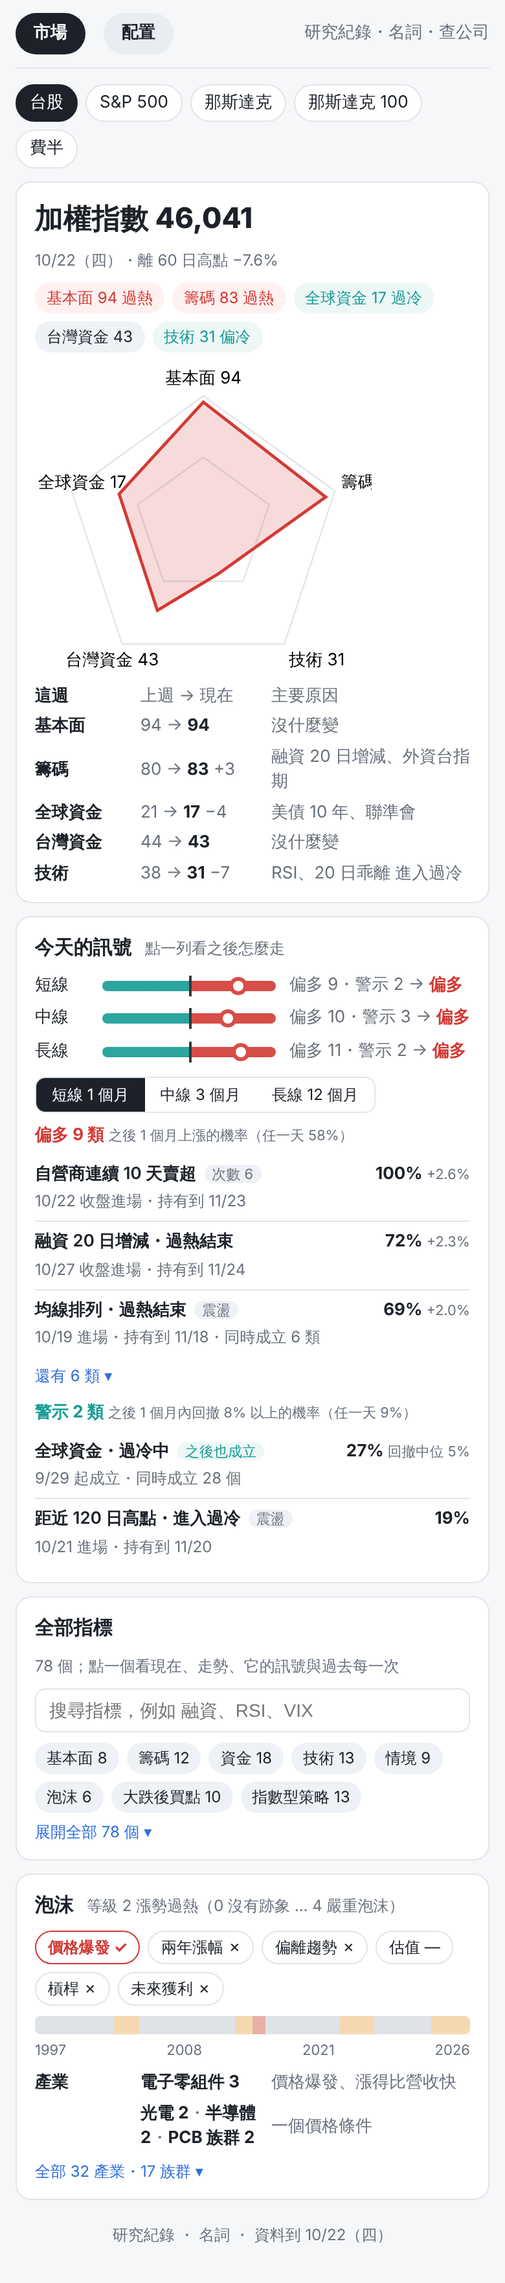
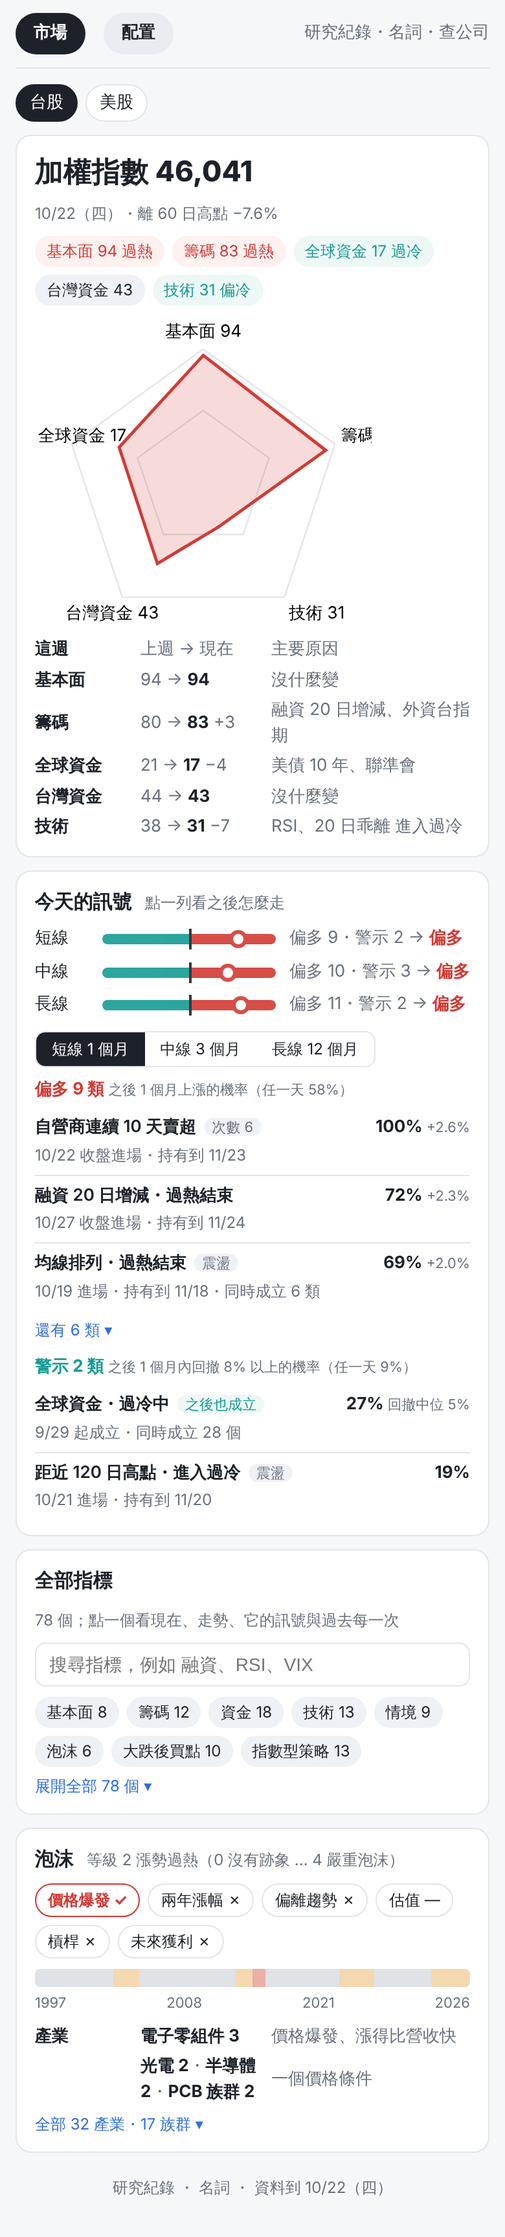
v5 規劃檔第四輪：配置拆成台股、美股、策略三頁；美股整合成一頁（配置與市場頁）；示意圖第四版 10 張（含 HTML 原稿）
Claude-Session: https://claude.ai/code/session_01Bw8dmRtPnDTV9FRHXYRm2s

diff --git a/docs/mockups/ia_v5_mock.html b/docs/mockups/ia_v5_mock.html
@@ -1,6 +1,6 @@
 <!doctype html>
 <html lang="zh-Hant"><head><meta charset="utf-8"><meta name="viewport" content="width=device-width,initial-scale=1">
-<title>籌碼雷達 v5 示意圖（第三版）</title>
+<title>籌碼雷達 v5 示意圖（第四版）</title>
 <style>
 :root{--bg:#f6f7f9;--card:#fff;--ink:#1d222a;--mut:#69717d;--line:#e2e5ea;--red:#d33a34;--teal:#159c94;--gold:#b8860b;--blue:#2f6fdd;--warm:#fff1f0;--cool:#edf7f6;--navy:#3a4a63}
 *{box-sizing:border-box}body{margin:0;background:var(--bg);color:var(--ink);font:14px/1.5 -apple-system,"Noto Sans TC","PingFang TC",system-ui,sans-serif}
@@ -77,12 +77,18 @@
  .ht td.src,.ht td.st{grid-column:1/3;font-size:12px}.ht tr.g td,.ht tr.tot td:last-child{grid-column:1/3}.ht tr.g{background:#f7f8fa}
  .bt th:nth-child(3),.bt td:nth-child(3),.bt th:nth-child(5),.bt td:nth-child(5){display:none}
 }
-</style></head><body>
 
-<!-- ============ 市場（同第二版） ============ -->
+/* 第四版新增 */
+.oth{display:flex;flex-wrap:wrap;gap:4px 16px;font-size:12.5px;color:var(--mut);margin-top:8px}.oth b{color:var(--ink)}
+.slim{display:flex;flex-wrap:wrap;gap:6px 14px;align-items:center;font-size:13px}.slim b{font-size:15px}.slim a{color:var(--blue);text-decoration:none}
+.bub{display:grid;grid-template-columns:9em 5em 1fr;gap:4px 10px;font-size:13px;align-items:center}.bub .lv{font-weight:800}.bub .lv.y{color:var(--red)}
+@media(max-width:640px){.bub{grid-template-columns:7em 3.5em 1fr}}
+.lvc.full{max-width:none}
+.qq{font-size:12.5px;color:var(--mut);margin-top:4px}.qq b{color:var(--ink)}
+</style></head><body>
 <div class="page" id="market">
   <div class="top"><span class="tab on">市場</span><span class="tab">配置</span><span class="r">研究紀錄・名詞・查公司</span></div>
-  <div class="mk"><span class="on">台股</span><span>S&amp;P 500</span><span>那斯達克</span><span>那斯達克 100</span><span>費半</span></div>
+  <div class="mk"><span class="on">台股</span><span>美股</span></div>
   <div class="card">
     <div class="hd"><span class="px">加權指數 46,041</span><span class="d">10/22（四）・離 60 日高點 −7.6%</span></div>
     <div class="chips"><span class="chip hot">基本面 94 過熱</span><span class="chip hot">籌碼 83 過熱</span><span class="chip cold">全球資金 17 過冷</span><span class="chip">台灣資金 43</span><span class="chip cold">技術 31 偏冷</span></div>
@@ -135,88 +141,161 @@
   <div class="foot">研究紀錄 ・ 名詞 ・ 資料到 10/22（四）</div>
 </div>
 
-<!-- ============ 配置（第三版） ============ -->
-<div class="page" id="cfg" hidden>
-  <div class="top"><span class="tab">市場</span><span class="tab on">配置</span><span class="r">研究紀錄・名詞・查公司</span></div>
-  <div class="mk"><span class="on">配置</span><span>個股（工具）</span></div>
-
+<div class="page" id="market-us" hidden>
+  <div class="top"><span class="tab on">市場</span><span class="tab">配置</span><span class="r">研究紀錄・名詞・查公司</span></div>
+  <div class="mk"><span class="">台股</span><span class="on">美股</span></div>
   <div class="card">
-    <h2>時程 <small>10/22 收盤後更新</small></h2>
-    <div class="tiles">
-      <div class="tile"><div class="l">待買進</div><div class="v">6 檔</div><div class="s">最近 10/26（一）開盤</div></div>
-      <div class="tile"><div class="l">持有中</div><div class="v">14 檔</div><div class="s">台股 7・美股 7</div></div>
-      <div class="tile"><div class="l">台股水位</div><div class="v">100%</div><div class="s">警訊 0／3</div></div>
-      <div class="tile"><div class="l">美股水位</div><div class="v">100%</div><div class="s">警訊 0／4</div></div>
+    <div class="hd"><span class="px">S&amp;P 500 6,735</span><span class="d">10/22（四）・離 60 日高點 −1.9%</span><span class="d">那斯達克 100 24,980・−2.4%</span><span class="d">費半 6,410・−8.7%（6/22 高點起 −24%）</span></div>
+    <div class="chips"><span class="chip hot">基本面 68 偏熱</span><span class="chip">情緒籌碼 55</span><span class="chip">資金 40</span><span class="chip hot">技術 62 偏熱</span></div>
+    <div class="rad" style="margin-top:10px">
+      <svg viewBox="0 0 220 200" width="100%" style="max-width:260px"><polygon points="110,20 200,100 110,180 20,100" fill="none" stroke="#e2e5ea"/><polygon points="110,60 160,100 110,140 60,100" fill="none" stroke="#e2e5ea"/><polygon points="110,46 150,100 110,130 74,100" fill="rgba(211,58,52,.18)" stroke="#d33a34" stroke-width="2"/><text x="110" y="12" font-size="11" text-anchor="middle">基本面 68</text><text x="204" y="104" font-size="11" text-anchor="end" dx="12">情緒籌碼 55</text><text x="110" y="196" font-size="11" text-anchor="middle">技術 62</text><text x="2" y="104" font-size="11">資金 40</text></svg>
+      <div>
+        <div class="mv">
+          <span class="k">這週</span><span class="v">上週 → 現在</span><span class="v">主要原因</span>
+          <span class="k">基本面</span><span class="v">65 → <b>68</b> +3</span><span class="v">失業率、製造業指數</span>
+          <span class="k">情緒籌碼</span><span class="v">52 → <b>55</b> +3</span><span class="v">VIX 回落、期貨淨多單</span>
+          <span class="k">資金</span><span class="v">42 → <b>40</b> −2</span><span class="v">10 年債、高收益債利差</span>
+          <span class="k">技術</span><span class="v">66 → <b>62</b> −4</span><span class="v">RSI、20 日乖離</span>
+        </div>
+        <div class="oth"><span>技術面依指數：</span><span>S&amp;P 500 <b>62</b></span><span>那斯達克 100 <b>58</b></span><span>費半 <b>71</b> 偏熱</span><span class="note">基本面、情緒籌碼、資金三個面向是整個美股共用的</span></div>
+      </div>
     </div>
-    <div class="nextbox">
-      <div><div class="d">10/26（一）<small>美股・下一個交易日要做的事</small></div><div><span class="pillb">開盤買進</span>強勢品質股 補 1 檔（名單 10/23 收盤定案，目前 PAYC 領先）</div></div>
-      <div><div class="d">10/27（二）<small>台股・下一個交易日要做的事</small></div><div><span class="pillb">開盤買進</span>共識加碼 玉晶光（開盤價 &lt; 1,160）<span class="note">・觀察中的策略，不在配置裡</span></div></div>
+  </div>
+  <div class="card">
+    <h2>今天的訊號 <small>S&amp;P 500；點一列看之後怎麼走</small></h2>
+    <div class="therm">
+      <span>短線</span><div class="bar"><i style="left:50%"></i><b style="left:40%"></b></div><span class="rd">偏多 3・警示 4 → <b style="color:var(--teal)">偏警示</b></span>
+      <span>中線</span><div class="bar"><i style="left:50%"></i><b style="left:68%"></b></div><span class="rd">偏多 5・警示 2 → <b>偏多</b></span>
+      <span>長線</span><div class="bar"><i style="left:50%"></i><b style="left:76%"></b></div><span class="rd">偏多 6・警示 1 → <b>偏多</b></span>
+    </div>
+    <div class="seg" style="margin-top:10px"><span class="on">短線 1 個月</span><span>中線 3 個月</span><span>長線 12 個月</span></div>
+    <div class="two">
+      <div class="list"><h4 class="up">偏多 3 類 <small style="font-weight:400;color:var(--mut)">之後 1 個月上漲的機率（任一天 62%）</small></h4>
+        <div class="row"><span class="n">上漲家數占比・進入過冷</span><span class="p">70% <small>+2.1%</small></span><span class="s">10/21 收盤進場・持有到 11/20</span></div>
+        <div class="row"><span class="n">20 日乖離・過冷結束<span class="tag">震盪</span></span><span class="p">66% <small>+1.8%</small></span><span class="s">10/17 進場・持有到 11/17・同時成立 3 類</span></div>
+        <div class="row"><span class="n">10 年減 3 個月利差・過冷結束</span><span class="p">64% <small>+1.5%</small></span><span class="s">10/9 進場・持有到 11/9</span></div>
+      </div>
+      <div class="list"><h4 class="dn">警示 4 類 <small style="font-weight:400;color:var(--mut)">之後 1 個月內回撤 5.7% 以上的機率（任一天 8%）</small></h4>
+        <div class="row"><span class="n">M2 年增率・過熱中<span class="tag ok">之後也成立</span></span><span class="p">31% <small>回撤中位 4%</small></span><span class="s">8/29 起成立</span></div>
+        <div class="row"><span class="n">期貨淨多單・進入過熱</span><span class="p">24%</span><span class="s">10/14 進場・持有到 11/13</span></div>
+        <div class="row"><span class="n">隱含波動率・過冷中</span><span class="p">22%</span><span class="s">10/2 起成立・同時成立 2 個</span></div>
+        <div class="more">還有 1 類 ▾</div>
+      </div>
+    </div>
+    <div class="oth" style="margin-top:10px"><span>其他指數：</span><span>那斯達克 100 短線 偏多 <b>2</b>・警示 <b>3</b></span><span>費半 短線 偏多 <b>1</b>・警示 <b>5</b></span><span class="more" style="margin:0">看它們的清單 ▾</span></div>
+  </div>
+  <div class="card">
+    <h2>全部指標 <small>92 個；三個指數共用 60 個，技術面與泡沫依指數各算</small></h2>
+    <div class="srch"><input placeholder="搜尋指標，例如 VIX、失業率、M2"></div>
+    <div class="chips"><span class="chip">基本面 11</span><span class="chip">情緒籌碼 5</span><span class="chip">資金 10</span><span class="chip">技術 9</span><span class="chip">情境 9</span><span class="chip">泡沫 11</span><span class="chip">大跌後買點 7</span><span class="chip">指數型策略 14</span></div>
+    <div class="more">展開全部 92 個 ▾</div>
+  </div>
+  <div class="card" id="bub-us">
+    <h2>泡沫 <small>三個指數各自的等級（0 沒有跡象 … 4 嚴重泡沫）</small></h2>
+    <div class="bub">
+      <span>S&amp;P 500</span><span class="lv y">2</span><span class="cond" style="margin:0"><span class="y">價格爆發 ✓</span><span>估值 ✗</span><span>槓桿 ✗</span><span>未來獲利 ✗</span></span>
+      <span>那斯達克 100</span><span class="lv">0</span><span class="note">沒有跡象</span>
+      <span>費半</span><span class="lv y">2</span><span class="cond" style="margin:0"><span class="y">價格爆發 ✓</span><span>漲得比獲利快 ✗</span><span>未來獲利 ✗</span></span>
+    </div>
+    <div class="band"></div><div class="ax"><span>1950</span><span>2000</span><span>2008</span><span>2021</span><span>2026</span></div>
+    <div class="mv" style="margin-top:8px"><span class="k">產業</span><span class="v"><b>科技 XLK 2</b></span><span class="v">一個價格條件</span><span></span><span class="v">49 個細產業裡 <b>8 個等級 2</b>（2026-08）</span><span class="v">兩年翻倍、比大盤多漲</span></div>
+    <div class="more">全部類股與細產業 ▾</div>
+  </div>
+  <div class="foot">研究紀錄 ・ 名詞 ・ 資料到 10/22（四）</div>
+</div>
+<div class="page" id="cfg-tw" hidden>
+  <div class="top"><span class="tab">市場</span><span class="tab on">配置</span><span class="r">研究紀錄・名詞・查公司</span></div>
+  <div class="mk"><span class="on">台股</span><span class="">美股</span><span class="">策略</span><span class="">個股（工具）</span></div>
+  <div class="card">
+    <h2>時程 <small>台股・10/22 收盤後更新</small></h2>
+    <div class="tiles"><div class="tile"><div class="l">待買進</div><div class="v">4 檔</div><div class="s">11/2（一）開盤・長線投信動能</div></div><div class="tile"><div class="l">持有中</div><div class="v">7 檔</div><div class="s">臺灣50 2・財報驚喜 5</div></div><div class="tile"><div class="l">股票水位</div><div class="v">100%</div><div class="s">現金 0%</div></div><div class="tile"><div class="l">警訊</div><div class="v">0／3</div><div class="s">通膨偏高・融資偏多・跌破年線</div></div></div>
+    <div class="nextbox" style="grid-template-columns:1fr">
+      <div><div class="d">10/27（二）<small>下一個交易日要做的事</small></div><div>使用中的策略沒有排定的買賣。</div><div style="margin-top:4px"><span class="pillb">開盤買進</span>共識加碼 玉晶光（開盤價 &lt; 1,160）<span class="note">・觀察中的策略，不在配置裡</span></div></div>
     </div>
     <div class="tlbar"><span class="seg" style="margin:0"><span class="on">全部</span><span>接下來 5 週</span></span><span class="lg"><b style="color:#d33a34">▲ 買進</b><b style="color:#159c94">▼ 賣出</b><b style="color:#2f6fdd">◆ 調整</b><b>▭ 持有中（顏色＝目前漲跌）</b><b>▭ 排定的買進</b></span><span style="margin-left:auto"><span class="sw"><span class="on">使用中</span><span>＋觀察中</span></span></span></div>
-    <div id="tl"></div>
+    <div id="tl-tw" class="tlbox"></div>
   </div>
-
   <div class="card">
-    <h2>水位總覽 <small>兩個市場現在各拿多少、三成放什麼、警訊</small></h2>
-    <div class="lv">
-      <div class="lvc">
-        <div class="h"><b>台股</b><span class="note">長抱 0050・10/22 收盤</span><span class="w">股票 100%<small>・現金 0%</small></span></div>
-        <div class="stack"><div class="c">長抱 70%　0050</div><div class="s1">臺灣50 10%</div><div class="s2">財報 10%</div><div class="s3">長線 10%</div></div><div class="stlg">機動：臺灣50 10%・財報驚喜 10%・長線 10%</div>
-        <div class="lvr"><span>警訊 <span class="ok">0／3</span></span><span>通膨偏高<i class="wb"><i style="width:77%"></i><u></u></i>76.7</span><span>融資偏多<i class="wb"><i style="width:55%"></i><u></u></i>54.5</span><span>年線<i class="wb"><i style="width:36%;background:#9bb"></i><u style="left:50%"></u></i>高 14.1%</span></div>
-        <div class="note">兩個以上成立：隔天收盤把機動 30% 換成現金，解除滿兩週才買回</div>
-        <div class="perf">2014 起 100 萬變 <b>1,261 萬</b>（0050 抱著 793 萬）・最慘跌 <b>23%</b>（29%）・年化約 23%（18%）　<span class="more" style="margin:0">細節 ▾</span></div>
-      </div>
-      <div class="lvc">
-        <div class="h"><b>美股</b><span class="note">長抱 <span class="sw"><span class="on">S&amp;P 500</span><span>那斯達克 100</span></span>・10/22 收盤</span><span class="w">股票 100%<small>・現金 0%</small></span></div>
-        <div class="stack"><div class="c">長抱 70%　SPY／VOO</div><div class="s30">強勢品質股 30%（8 檔）</div></div><div class="stlg">機動：強勢品質股 30%（8 檔，空位放 S&amp;P 500）</div>
-        <div class="lvr"><span>警訊 <span class="ok">0／4</span></span><span>通膨<i class="wb"><i style="width:77%"></i><u></u></i>76.7</span><span>融資增加<i class="wb"><i style="width:75%"></i><u></u></i>75.0</span><span>年線<i class="wb"><i style="width:44%;background:#9bb"></i><u style="left:50%"></u></i>高 5.2%</span><span>總經策略<i class="wb"><i style="width:25%;background:#9bb"></i><u style="left:99%"></u></i>3 條有部位</span></div>
-        <div class="note">兩個以上成立，或總經策略全部空手：隔天收盤把機動 30% 換成現金</div>
-        <div class="perf">2014 起 100 萬變 <b>886 萬</b>（SPY 抱著 515 萬）・最慘跌 <b>25%</b>（34%）・年化約 19%（14%）　<span class="more" style="margin:0">細節 ▾</span></div>
-      </div>
+    <h2>水位 <small>現在拿多少、三成放什麼、警訊</small></h2>
+    <div class="lvc full">
+      <div class="h"><b>台股</b><span class="note">長抱 0050・10/22 收盤</span><span class="w">股票 100%<small>・現金 0%</small></span></div>
+      <div class="stack"><div class="c">長抱 70%　0050</div><div class="s1">臺灣50 10%</div><div class="s2">財報驚喜 10%</div><div class="s3">長線 10%</div></div><div class="stlg">機動：臺灣50 10%・財報驚喜 10%・長線 10%</div>
+      <div class="lvr"><span>警訊 <span class="ok">0／3</span></span><span>通膨偏高<i class="wb"><i style="width:77%"></i><u></u></i>76.7</span><span>融資偏多<i class="wb"><i style="width:55%"></i><u></u></i>54.5</span><span>年線<i class="wb"><i style="width:36%;background:#9bb"></i><u style="left:50%"></u></i>高 14.1%</span></div>
+      <div class="note">兩個以上成立：隔天收盤把機動 30% 換成現金，解除滿兩週才買回</div>
+      <div class="perf">2014 起 100 萬變 <b>1,261 萬</b>（0050 抱著 793 萬）・最慘跌 <b>23%</b>（29%）・年化約 23%（18%）　<span class="more" style="margin:0">細節 ▾</span></div>
     </div>
   </div>
-
   <div class="card">
-    <h2>持股細節 <small>比重＝占全部資金</small></h2>
-    <div class="lv">
-      <div>
-        <div class="sec" style="margin:4px 0 6px"><b style="font-size:15px">台股</b><span>合計 100%</span></div>
-        <table class="ht">
-          <tr><th>標的</th><th style="text-align:right">比重</th><th>來源</th><th>現況</th></tr>
-          <tr class="g"><td colspan="4">長抱 70%</td></tr>
-          <tr><td class="idx">0050</td><td class="w">70%</td><td class="src">一直抱著</td><td class="st">—</td></tr>
-          <tr class="g"><td colspan="4">機動 30%：三條策略各 10%，沒部位的放 0050</td></tr>
-          <tr><td>台塑 1301</td><td class="w">2.5%</td><td class="src">臺灣50 提前卡位</td><td class="st">10/16 買・−5.2%</td></tr>
-          <tr><td>景碩 3189</td><td class="w">2.5%</td><td class="src">臺灣50 提前卡位</td><td class="st">10/16 買・−5.1%</td></tr>
-          <tr><td class="idx">0050</td><td class="w">5%</td><td class="src">臺灣50 提前卡位</td><td class="st">名單還沒補滿（11/23 截止）</td></tr>
-          <tr><td>聯電 2303</td><td class="w">2%</td><td class="src">財報驚喜（大型股）</td><td class="st">8/17 買・11/13 收盤賣</td></tr>
-          <tr><td>台積電 2330</td><td class="w">2%</td><td class="src">財報驚喜（大型股）</td><td class="st">8/17 買・11/13 收盤賣</td></tr>
-          <tr><td>台光電 2383</td><td class="w">2%</td><td class="src">財報驚喜（大型股）</td><td class="st">8/17 買・11/13 收盤賣</td></tr>
-          <tr><td>文曄 3036</td><td class="w">2%</td><td class="src">財報驚喜（大型股）</td><td class="st">8/17 買・11/13 收盤賣</td></tr>
-          <tr><td>台燿 6274</td><td class="w">2%</td><td class="src">財報驚喜（大型股）</td><td class="st">8/17 買・11/13 收盤賣</td></tr>
-          <tr><td class="idx">0050</td><td class="w">10%</td><td class="src">長線投信動能</td><td class="st">沒有部位・11/2 開盤買 4 檔</td></tr>
-        </table>
-      </div>
-      <div>
-        <div class="sec" style="margin:4px 0 6px"><b style="font-size:15px">美股</b><span>合計 100%</span></div>
-        <table class="ht">
-          <tr><th>標的</th><th style="text-align:right">比重</th><th>來源</th><th>現況</th></tr>
-          <tr class="g"><td colspan="4">長抱 70%</td></tr>
-          <tr><td class="idx">SPY／VOO</td><td class="w">70%</td><td class="src">一直抱著</td><td class="st">—</td></tr>
-          <tr class="g"><td colspan="4">機動 30%：強勢品質股最多 8 檔，空位放 S&amp;P 500</td></tr>
-          <tr><td>INSW</td><td class="w">3.2%</td><td class="src">強勢品質股</td><td class="st">7/20 買・+29%・高於 50 日線 3.3%（最接近）</td></tr>
-          <tr><td>CDNA</td><td class="w">2.9%</td><td class="src">強勢品質股</td><td class="st">8/3 買・+47%</td></tr>
-          <tr><td>VLO</td><td class="w">4.3%</td><td class="src">強勢品質股</td><td class="st">8/31 買・+18%</td></tr>
-          <tr><td>DINO</td><td class="w">4.2%</td><td class="src">強勢品質股</td><td class="st">9/8 買・+14%</td></tr>
-          <tr><td>MPC</td><td class="w">4.2%</td><td class="src">強勢品質股</td><td class="st">9/14 買・+15%</td></tr>
-          <tr><td>ANF</td><td class="w">3.9%</td><td class="src">強勢品質股</td><td class="st">10/19 買・+5%</td></tr>
-          <tr><td>ILMN</td><td class="w">3.8%</td><td class="src">強勢品質股</td><td class="st">10/19 買・+0%</td></tr>
-          <tr><td class="idx">SPY</td><td class="w">3.6%</td><td class="src">強勢品質股</td><td class="st">空位 1・10/26 開盤補</td></tr>
-        </table>
-      </div>
+    <h2>持股細節 <small>比重＝占全部資金・合計 100%</small></h2>
+    <table class="ht">
+      <tr><th>標的</th><th>比重</th><th>來源</th><th>現況</th></tr>
+      <tr class="g"><td colspan="4">長抱 70%</td></tr>
+      <tr><td class="idx">0050</td><td class="w">70%</td><td class="src">一直抱著</td><td class="st">—</td></tr>
+      <tr class="g"><td colspan="4">機動 30%：三條策略各 10%，沒部位的放 0050</td></tr>
+      <tr><td>台塑 1301</td><td class="w">2.5%</td><td class="src">臺灣50 提前卡位</td><td class="st">10/16 買・−5.2%</td></tr>
+      <tr><td>景碩 3189</td><td class="w">2.5%</td><td class="src">臺灣50 提前卡位</td><td class="st">10/16 買・−5.1%</td></tr>
+      <tr><td class="idx">0050</td><td class="w">5%</td><td class="src">臺灣50 提前卡位</td><td class="st">名單還沒補滿（11/23 截止）</td></tr>
+      <tr><td>聯電 2303</td><td class="w">2%</td><td class="src">財報驚喜（大型股）</td><td class="st">8/17 買・11/13 收盤賣</td></tr>
+      <tr><td>台積電 2330</td><td class="w">2%</td><td class="src">財報驚喜（大型股）</td><td class="st">8/17 買・11/13 收盤賣</td></tr>
+      <tr><td>台光電 2383</td><td class="w">2%</td><td class="src">財報驚喜（大型股）</td><td class="st">8/17 買・11/13 收盤賣</td></tr>
+      <tr><td>文曄 3036</td><td class="w">2%</td><td class="src">財報驚喜（大型股）</td><td class="st">8/17 買・11/13 收盤賣</td></tr>
+      <tr><td>台燿 6274</td><td class="w">2%</td><td class="src">財報驚喜（大型股）</td><td class="st">8/17 買・11/13 收盤賣</td></tr>
+      <tr><td class="idx">0050</td><td class="w">10%</td><td class="src">長線投信動能</td><td class="st">沒有部位・11/2 開盤買 4 檔</td></tr>
+    </table>
+  </div>
+  <div class="card">
+    <div class="slim"><b>台股的策略</b><span>使用中 <b>4</b></span><span>觀察中 <b>9</b></span><span>候選 <b>0</b></span><span>淘汰 <b>10</b></span><a href="#">全部在「策略」頁 →</a></div>
+  </div>
+  <div class="foot">研究紀錄 ・ 名詞 ・ 資料到 10/22（四）</div>
+</div>
+<div class="page" id="cfg-us" hidden>
+  <div class="top"><span class="tab">市場</span><span class="tab on">配置</span><span class="r">研究紀錄・名詞・查公司</span></div>
+  <div class="mk"><span class="">台股</span><span class="on">美股</span><span class="">策略</span><span class="">個股（工具）</span></div>
+  <div class="card">
+    <h2>時程 <small>美股・10/22 收盤後更新</small></h2>
+    <div class="tiles"><div class="tile"><div class="l">待買進</div><div class="v">1 檔</div><div class="s">10/26（一）開盤・強勢品質股</div></div><div class="tile"><div class="l">持有中</div><div class="v">7 檔</div><div class="s">強勢品質股・平均 +18.5%</div></div><div class="tile"><div class="l">股票水位</div><div class="v">100%</div><div class="s">現金 0%</div></div><div class="tile"><div class="l">警訊</div><div class="v">0／4</div><div class="s">通膨・融資增加・跌破年線・總經策略全部空手</div></div></div>
+    <div class="nextbox" style="grid-template-columns:1fr">
+      <div><div class="d">10/26（一）<small>下一個交易日要做的事</small></div><div><span class="pillb">開盤買進</span>強勢品質股 補 1 檔（名單 10/23 收盤定案，目前 PAYC 領先）</div><div style="margin-top:4px"><span class="note">觀察中：200 日線上用期貨多拿 5 成，在線上（+11.7%），不用動</span></div></div>
+    </div>
+    <div class="tlbar"><span class="seg" style="margin:0"><span class="on">全部</span><span>接下來 5 週</span></span><span class="lg"><b style="color:#d33a34">▲ 買進</b><b style="color:#159c94">▼ 賣出</b><b style="color:#2f6fdd">◆ 調整</b><b>▭ 持有中（顏色＝目前漲跌）</b><b>▭ 排定的買進</b></span><span style="margin-left:auto"><span class="sw"><span>使用中</span><span class="on">＋觀察中</span></span></span></div>
+    <div id="tl-us" class="tlbox"></div>
+  </div>
+  <div class="card">
+    <h2>水位 <small>現在拿多少、三成放什麼、警訊</small></h2>
+    <div class="lvc full">
+      <div class="h"><b>美股</b><span class="note">長抱 S&amp;P 500（SPY／VOO）・10/22 收盤</span><span class="w">股票 100%<small>・現金 0%</small></span></div>
+      <div class="stack"><div class="c">長抱 70%　SPY／VOO</div><div class="s30">強勢品質股 30%（8 檔）</div></div><div class="stlg">機動：強勢品質股 30%（8 檔，空位放 S&amp;P 500）</div>
+      <div class="lvr"><span>警訊 <span class="ok">0／4</span></span><span>通膨<i class="wb"><i style="width:77%"></i><u></u></i>76.7</span><span>融資增加<i class="wb"><i style="width:75%"></i><u></u></i>75.0</span><span>年線<i class="wb"><i style="width:44%;background:#9bb"></i><u style="left:50%"></u></i>高 5.2%</span><span>總經策略<i class="wb"><i style="width:25%;background:#9bb"></i><u style="left:99%"></u></i>3 條有部位</span></div>
+      <div class="note">兩個以上成立，或總經策略全部空手：隔天收盤把機動 30% 換成現金</div>
+      <div class="perf">2014 起 100 萬變 <b>886 萬</b>（SPY 抱著 515 萬）・最慘跌 <b>25%</b>（34%）・年化約 19%（14%）　<span class="more" style="margin:0">細節 ▾</span></div>
+      <div class="qq">長抱改成那斯達克 100（QQQ）的版本：同一套規則 100 萬變 <b>1,281 萬</b>（QQQ 抱著 947 萬）・最慘跌 <b>31%</b>（35%）。只是對照，配置照 S&amp;P 500。</div>
     </div>
   </div>
-
+  <div class="card">
+    <h2>持股細節 <small>比重＝占全部資金・合計 100%</small></h2>
+    <table class="ht">
+      <tr><th>標的</th><th>比重</th><th>來源</th><th>現況</th></tr>
+      <tr class="g"><td colspan="4">長抱 70%</td></tr>
+      <tr><td class="idx">SPY／VOO</td><td class="w">70%</td><td class="src">一直抱著</td><td class="st">—</td></tr>
+      <tr class="g"><td colspan="4">機動 30%：強勢品質股最多 8 檔，空位放 S&amp;P 500</td></tr>
+      <tr><td>INSW</td><td class="w">3.2%</td><td class="src">強勢品質股</td><td class="st">7/20 買・+29%・高於 50 日線 3.3%（最接近）</td></tr>
+      <tr><td>CDNA</td><td class="w">2.9%</td><td class="src">強勢品質股</td><td class="st">8/3 買・+47%</td></tr>
+      <tr><td>VLO</td><td class="w">4.3%</td><td class="src">強勢品質股</td><td class="st">8/31 買・+18%</td></tr>
+      <tr><td>DINO</td><td class="w">4.2%</td><td class="src">強勢品質股</td><td class="st">9/8 買・+14%</td></tr>
+      <tr><td>MPC</td><td class="w">4.2%</td><td class="src">強勢品質股</td><td class="st">9/14 買・+15%</td></tr>
+      <tr><td>ANF</td><td class="w">3.9%</td><td class="src">強勢品質股</td><td class="st">10/19 買・+5%</td></tr>
+      <tr><td>ILMN</td><td class="w">3.8%</td><td class="src">強勢品質股</td><td class="st">10/19 買・+0%</td></tr>
+      <tr><td class="idx">SPY</td><td class="w">3.6%</td><td class="src">強勢品質股</td><td class="st">空位 1・10/26 開盤補</td></tr>
+    </table>
+  </div>
+  <div class="card">
+    <div class="slim"><b>美股的策略</b><span>使用中 <b>1</b></span><span>觀察中 <b>9</b></span><span>候選 <b>0</b></span><span>淘汰 <b>8</b></span><a href="#">全部在「策略」頁 →</a></div>
+  </div>
+  <div class="foot">研究紀錄 ・ 名詞 ・ 資料到 10/22（四）</div>
+</div>
+<div class="page" id="cfg-strat" hidden>
+  <div class="top"><span class="tab">市場</span><span class="tab on">配置</span><span class="r">研究紀錄・名詞・查公司</span></div>
+  <div class="mk"><span class="">台股</span><span class="">美股</span><span class="on">策略</span><span class="">個股（工具）</span></div>
   <div class="card">
     <h2>策略 <small>全部 41 條：進配置的、看著的、新找的、淘汰的</small></h2>
     <div class="filt"><span class="on">使用中 5</span><span class="on">觀察中 18</span><span class="on">候選 0</span><span>淘汰 18</span><span class="sep">｜</span><span>台股</span><span>美股</span></div>
@@ -237,6 +316,8 @@
       <tr><td colspan="6" class="note">目前沒有。第一批 10/26（日）之後出現：每一條列 來源連結、規則一句、年化（對照）、最慘跌、判定。</td></tr>
       <tr><td colspan="6" class="more">淘汰 18 條（短期反轉：樣本內外都輸・美股飆股五本帳：選到樂透型股票・高股息追買：沒贏大盤 …）▾</td></tr>
     </table>
+    
+  
   </div>
   <div class="foot">研究紀錄 ・ 名詞 ・ 資料到 10/22（四）</div>
 </div>
@@ -245,17 +326,19 @@
 (function(){
 const DAY=864e5,U=(m,d)=>Date.UTC(2026,m-1,d)/DAY;
 const t0=U(8,15),t1=U(12,31),now=U(10,22),nx=U(10,26);
-const L=[
- {nm:'1. 臺灣50 提前卡位',sub:'台股・使用中・持有約 2 個月',it:[{k:'held',a:U(10,16),b:U(12,18),lb:'2 檔 −5.1%',up:false},{k:'m',d:U(11,24),s:'◆',c:'adj'},{k:'m',d:U(12,18),s:'▼',c:'sell'}]},
- {nm:'2. 財報驚喜（大型股）',sub:'台股・使用中・持有約 3 個月',it:[{k:'held',a:U(8,17),b:U(11,13),lb:'5 檔 −5.9%',up:false},{k:'m',d:U(11,13),s:'▼',c:'sell'},{k:'m',d:U(11,17),s:'▲',c:'buy dash'},{k:'txt',d:U(11,17),lb:'名單 11/16 產生'}]},
- {nm:'3. 長線投信動能',sub:'台股・使用中・平均持有 4 個月',it:[{k:'plan',a:U(11,2),b:t1,lb:'大成鋼、宏致、天鈺、高力',rule:true},{k:'m',d:U(11,2),s:'▲',c:'buy dash'}]},
- {nm:'4. 強勢品質股',sub:'美股・使用中・跌破 50 日線賣',it:[{k:'held',a:U(7,20),b:t1,lb:'7 檔 +18.5%',up:true,rule:true},{k:'m',d:U(10,26),s:'▲',c:'buy dash'},{k:'txt',d:U(10,26),lb:'補 1 檔',dy:-12}]},
- {nm:'5. 共識加碼',sub:'台股・觀察中・持有 3 個交易日',it:[{k:'held',a:U(10,22),b:U(10,27),lb:'1 檔 +1.4%',up:true},{k:'m',d:U(10,27),s:'▲',c:'buy dash'},{k:'txt',d:U(10,27),lb:'玉晶光'}]}
+const LTW=[
+ {nm:'1. 臺灣50 提前卡位',sub:'使用中・持有約 2 個月',it:[{k:'held',a:U(10,16),b:U(12,18),lb:'2 檔 −5.1%',up:false},{k:'m',d:U(11,24),s:'◆',c:'adj'},{k:'m',d:U(12,18),s:'▼',c:'sell'}]},
+ {nm:'2. 財報驚喜（大型股）',sub:'使用中・持有約 3 個月',it:[{k:'held',a:U(8,17),b:U(11,13),lb:'5 檔 −5.9%',up:false},{k:'m',d:U(11,13),s:'▼',c:'sell'},{k:'m',d:U(11,17),s:'▲',c:'buy dash'},{k:'txt',d:U(11,17),lb:'名單 11/16 產生'}]},
+ {nm:'3. 長線投信動能',sub:'使用中・平均持有 4 個月',it:[{k:'plan',a:U(11,2),b:t1,lb:'大成鋼、宏致、天鈺、高力',rule:true},{k:'m',d:U(11,2),s:'▲',c:'buy dash'}]}
 ];
-const box=document.getElementById('tl');
+const LUS=[
+ {nm:'1. 強勢品質股',sub:'使用中・跌破 50 日線賣',it:[{k:'held',a:U(7,20),b:t1,lb:'7 檔 +18.5%',up:true,rule:true},{k:'m',d:U(10,26),s:'▲',c:'buy dash'},{k:'txt',d:U(10,26),lb:'補 1 檔'}]},
+ {nm:'2. 200 日線上用期貨多拿 5 成',sub:'觀察中・在線上',it:[{k:'held',a:U(5,12),b:t1,lb:'期貨多拿 50% +11.7%',up:true,rule:true}]},
+ {nm:'3. RSI(2) 超賣反彈',sub:'觀察中・空手',it:[{k:'txt',d:now,lb:'空手・等 2 日 RSI < 10',dy:0}]}
+];
 const esc=s=>s.replace(/[<>&]/g,c=>({'<':'&lt;','>':'&gt;','&':'&amp;'}[c]));
-function draw(){
-const W=box.clientWidth;if(!W)return;const mob=W<560,LB=mob?0:200,T=30,RH=mob?66:54,H=T+L.length*RH+22,R=W-6;
+function draw(box,L){
+const W=box.clientWidth;if(!W)return;const mob=W<560,LB=mob?0:220,T=30,RH=mob?66:54,H=T+L.length*RH+22,R=W-6;
 const X=t=>LB+(t-t0)/(t1-t0)*(R-LB);
 let s=`<svg viewBox="0 0 ${W} ${H}" width="${W}" height="${H}">`;
 L.forEach((l,i)=>{const y=T+i*RH;s+=`<rect class="tl-lane${i%2?' al':''}" x=0 y=${y} width=${W} height=${RH} rx=8 />`;
@@ -272,7 +355,7 @@ L.forEach((l,i)=>{const y=T+i*RH,yy=y+(mob?28:18);let lastM=-99;const nd={};
   else if(it.k==='txt'){const x=X(it.d),dy=mob?(nd[it.d]||0):(it.dy||0);s+=`<text class="tl-t2" x=${x+12} y=${yy+13+dy}>${esc(it.lb)}</text>`;}});});
 const xn=X(now);s+=`<line class="tl-now" x1=${xn} x2=${xn} y1=${T-6} y2=${H-14} /><text class="tl-nowt" x=${xn+4} y=${H-2}>資料日 10/22</text></svg>`;
 box.innerHTML=s;}
-draw();new ResizeObserver(draw).observe(box);
+for(const [id,L] of [['tl-tw',LTW],['tl-us',LUS]]){const b=document.getElementById(id);draw(b,L);new ResizeObserver(()=>draw(b,L)).observe(b);}
 })();
 </script>
 </body></html>

diff --git a/docs/lab_ia_v5_plan.md b/docs/lab_ia_v5_plan.md
@@ -336,12 +336,12 @@
 
 | 段 | 做什麼 | 產出 | 驗收 |
 |---|---|---|---|
-| 1 | **配置頁**（第 16 節版面）：時程、水位總覽、持股細節、策略總覽（含狀態檔）、個股分頁、候選區（先空）；後台先搬到 `x9r.html` | x9.html、x9r.html、board.py、strategy_board.json | 電腦／手機截圖；配置頁可見文字 ≤ 15,000 字 |
-| 2 | **市場頁**：頁首一列、泡沫併入、全部指標併入、研究結論改表；驗證等搬到研究紀錄；x9b／x9o 轉址 | x9m.html、x9mu.html、x9r.html 補齊 | 台股頁 ≤ 15,000 字、手機不橫捲 |
+| 1 | **配置頁**（第 17 節版面：台股頁、美股頁、策略頁）：時程、水位、持股細節、策略總覽（含狀態檔）、個股分頁、候選區（先空）；後台先搬到 `x9r.html` | x9.html、x9r.html、board.py、strategy_board.json | 電腦／手機截圖；配置頁可見文字 ≤ 15,000 字 |
+| 2 | **市場頁**：頁首一列、泡沫併入、全部指標併入、研究結論改表；美股四個指數整合成一頁（第 17.2 節，順便做掉第 6 段）；驗證等搬到研究紀錄；x9b／x9o 轉址 | x9m.html、x9mu.html、x9r.html 補齊 | 台股頁 ≤ 15,000 字、手機不橫捲 |
 | 3 | **用字清理**：兩個主頁面全部文案過一遍、test_plain | — | 測試綠、人工讀一遍 |
 | 4 | **導覽與入口**：頂欄改 市場｜配置、主頁「·」入口、CLAUDE.md、排程搬家（Routine 的分支要有新程式） | appnav、CLAUDE.md | 六個舊網址都轉得到 |
 | 5 | **候選機制**：規格檔、cands 程式架構、CI 回測、候選區、週日 Routine、推播一行；第一週先找 1～2 條試跑 | 第 6 節全部 | 第一條候選出現在頁面 |
-| 6 | **美股頁面板體積**：四個指數的細項面板改成點到才下載（2.2MB → 約 0.5MB） | x9mu.html、x9mup-*.json | 手機下載量 |
+| 6 | **美股頁面板體積**：已併入第 2 段（美股整合成一頁時一起做） | — | — |
 
 第 1～4 段約 3～4 天；第 5 段 2 天；第 6 段 1 天。每段合併後 CI 自動重建，我用 main 上的檔案驗，線上要你看。
 
@@ -438,7 +438,7 @@
 
 ## 16. 第三輪修正（2026-10-23，使用者看過第二版：「配置的部分更醜了 你最上面可以放現在有的那個進場時程那個 我覺得很棒 下面再放各個市場現在的水位總覽 然後就是持股的細節 你再規劃一個版本給我」）
 
-**以下取代第 15.3 節與第 15.5 節的配置頁部分**；市場頁不變（面向 → 今天的訊號 → 全部指標 → 泡沫）。
+**以下取代第 15.3 節與第 15.5 節的配置頁部分**；市場頁不變（面向 → 今天的訊號 → 全部指標 → 泡沫）。**16.1 與 16.4 又被第 17 節（第四版）取代**。
 示意圖第三版＝`docs/mockups/ia_v5_cfg_phone.png`、`ia_v5_cfg_desktop.png`，原稿 `docs/mockups/ia_v5_mock.html`。
 
 ### 16.1 配置頁第三版：時程在上、水位在中、持股在下
@@ -489,6 +489,51 @@
 市場：面向 → 今天的訊號 → 全部指標 → 泡沫
 配置：時程（四格・下一個交易日・時間軸）→ 水位總覽（台股卡｜美股卡）→ 持股細節（台股表｜美股表）→ 策略（使用中／觀察中／候選／淘汰）
       分頁「個股」＝個股表與卡、籌碼、指數
+研究紀錄（頁尾進）：全部驗證與方法
+```
+
+## 17. 第四輪修正（2026-10-23，使用者看過第三版：「好很多 但同一頁資訊還是太多 你把台灣跟美國分開成個別子頁面 然後美國的可以整合起來不用分四個 再規劃一個版本給我」）
+
+**取代第 16.1、16.4 節，以及第 15.1 節的美股部分**。示意圖第四版共 10 張：
+`docs/mockups/ia_v5_{market,market-us,cfg-tw,cfg-us,cfg-strat}_{phone,desktop}.png`，原稿 `docs/mockups/ia_v5_mock.html`。
+
+### 17.1 配置：台股一頁、美股一頁、策略一頁
+
+- 第二排分頁：**台股｜美股｜策略｜個股（工具）**。
+- 台股頁、美股頁同一套四塊，只放那個市場的東西：
+  1. **時程**：四格改成 待買進｜持有中｜股票水位｜警訊（第三版「台股水位／美股水位」兩格不需要了）；
+     下一個交易日只列這個市場（台股 10/27、美股 10/26）；時間軸只畫這個市場的策略
+     （台股 3 條使用中；美股 1 條使用中，切到「＋觀察中」多 2 條）。
+  2. **水位**：一張卡滿版（第三版兩張並排拆開），內容不變。
+  3. **持股細節**：一張表。
+  4. 一行「這個市場的策略：使用中 N・觀察中 N・候選 N・淘汰 N，全部在「策略」頁」。
+- **策略頁**＝第三版底部那張表原樣（全部市場、四種狀態、候選分組、淘汰收起），有台股／美股篩選。
+- 份量：手機高度 台股 4,274 px、美股 4,406 px、策略 1,952 px（第三版配置一頁 8,118 px）。
+
+### 17.2 美股整合成一個（配置與市場頁都是）
+
+- **配置・美股**：一個計畫＝長抱 70% S&P 500（SPY／VOO）＋機動 30% 強勢品質股。那斯達克 100 的版本（corespec 的 ndx 計畫）
+  只在水位卡最下面一行「長抱改成那斯達克 100（QQQ）的版本：同一套規則 100 萬變 1,281 萬…只是對照」，不再切換。
+  研究檔與前瞻紀錄兩個計畫照算（corespec 不動），頁面只呈現 S&P 500 那一個。
+- **市場・美股**：一頁，不再分 S&P 500／那斯達克／那斯達克 100／費半 四個：
+  - 頁首：S&P 500 指數、日期、離 60 日高點；那斯達克 100 與費半各一小段（指數、離高點）。
+  - 面向：基本面、情緒籌碼、資金本來就是整個美股共用的（heatspec_us 三個面向四個指數共用），雷達用 S&P 500 的技術面；
+    雷達旁一行「技術面依指數：S&P 500 62・那斯達克 100 58・費半 71」。這週變化四列。
+  - 今天的訊號：S&P 500 的溫度計與清單；下面一行「其他指數：那斯達克 100 短線 偏多 2・警示 3｜費半 短線 偏多 1・警示 5」，
+    點了才展開它們的清單。
+  - 全部指標：一份清單（共用的 60 個＋依指數各算的技術面與泡沫，標指數名）。
+  - 泡沫：三個指數各一列（等級＋成立的條件），色帶畫 S&P 500，產業一行。
+  - 那斯達克綜合指數不上頁面（研究檔、研究紀錄照舊有）；費半留著是因為對台股有意義。
+- 程式：`heatpage_us` 從「四個指數四份 template 切換」改成「S&P 500 一份＋另外兩個指數的摘要」；對照圖只載 `x9muh-spx.json`，
+  點「其他指數」才載另外兩檔。第 10 節第 6 段（美股面板體積）因此自然做掉。
+- 導覽：頂欄 市場｜配置；市場頁第二排 台股｜美股；配置頁第二排 台股｜美股｜策略｜個股（工具）。
+  網址 `x9m.html`（市場・台股）、`x9mu.html`（市場・美股）、`x9.html?v=tw|us|strat|stk`（配置）。
+
+### 17.3 兩頁的最終結構（取代 16.4）
+
+```
+市場：台股頁、美股頁（各＝面向 → 今天的訊號 → 全部指標 → 泡沫；美股一頁整合三個指數）
+配置：台股頁、美股頁（各＝時程 → 水位 → 持股細節 → 策略一行）、策略頁（全部策略：使用中／觀察中／候選／淘汰）、個股（工具）
 研究紀錄（頁尾進）：全部驗證與方法
 ```
 
